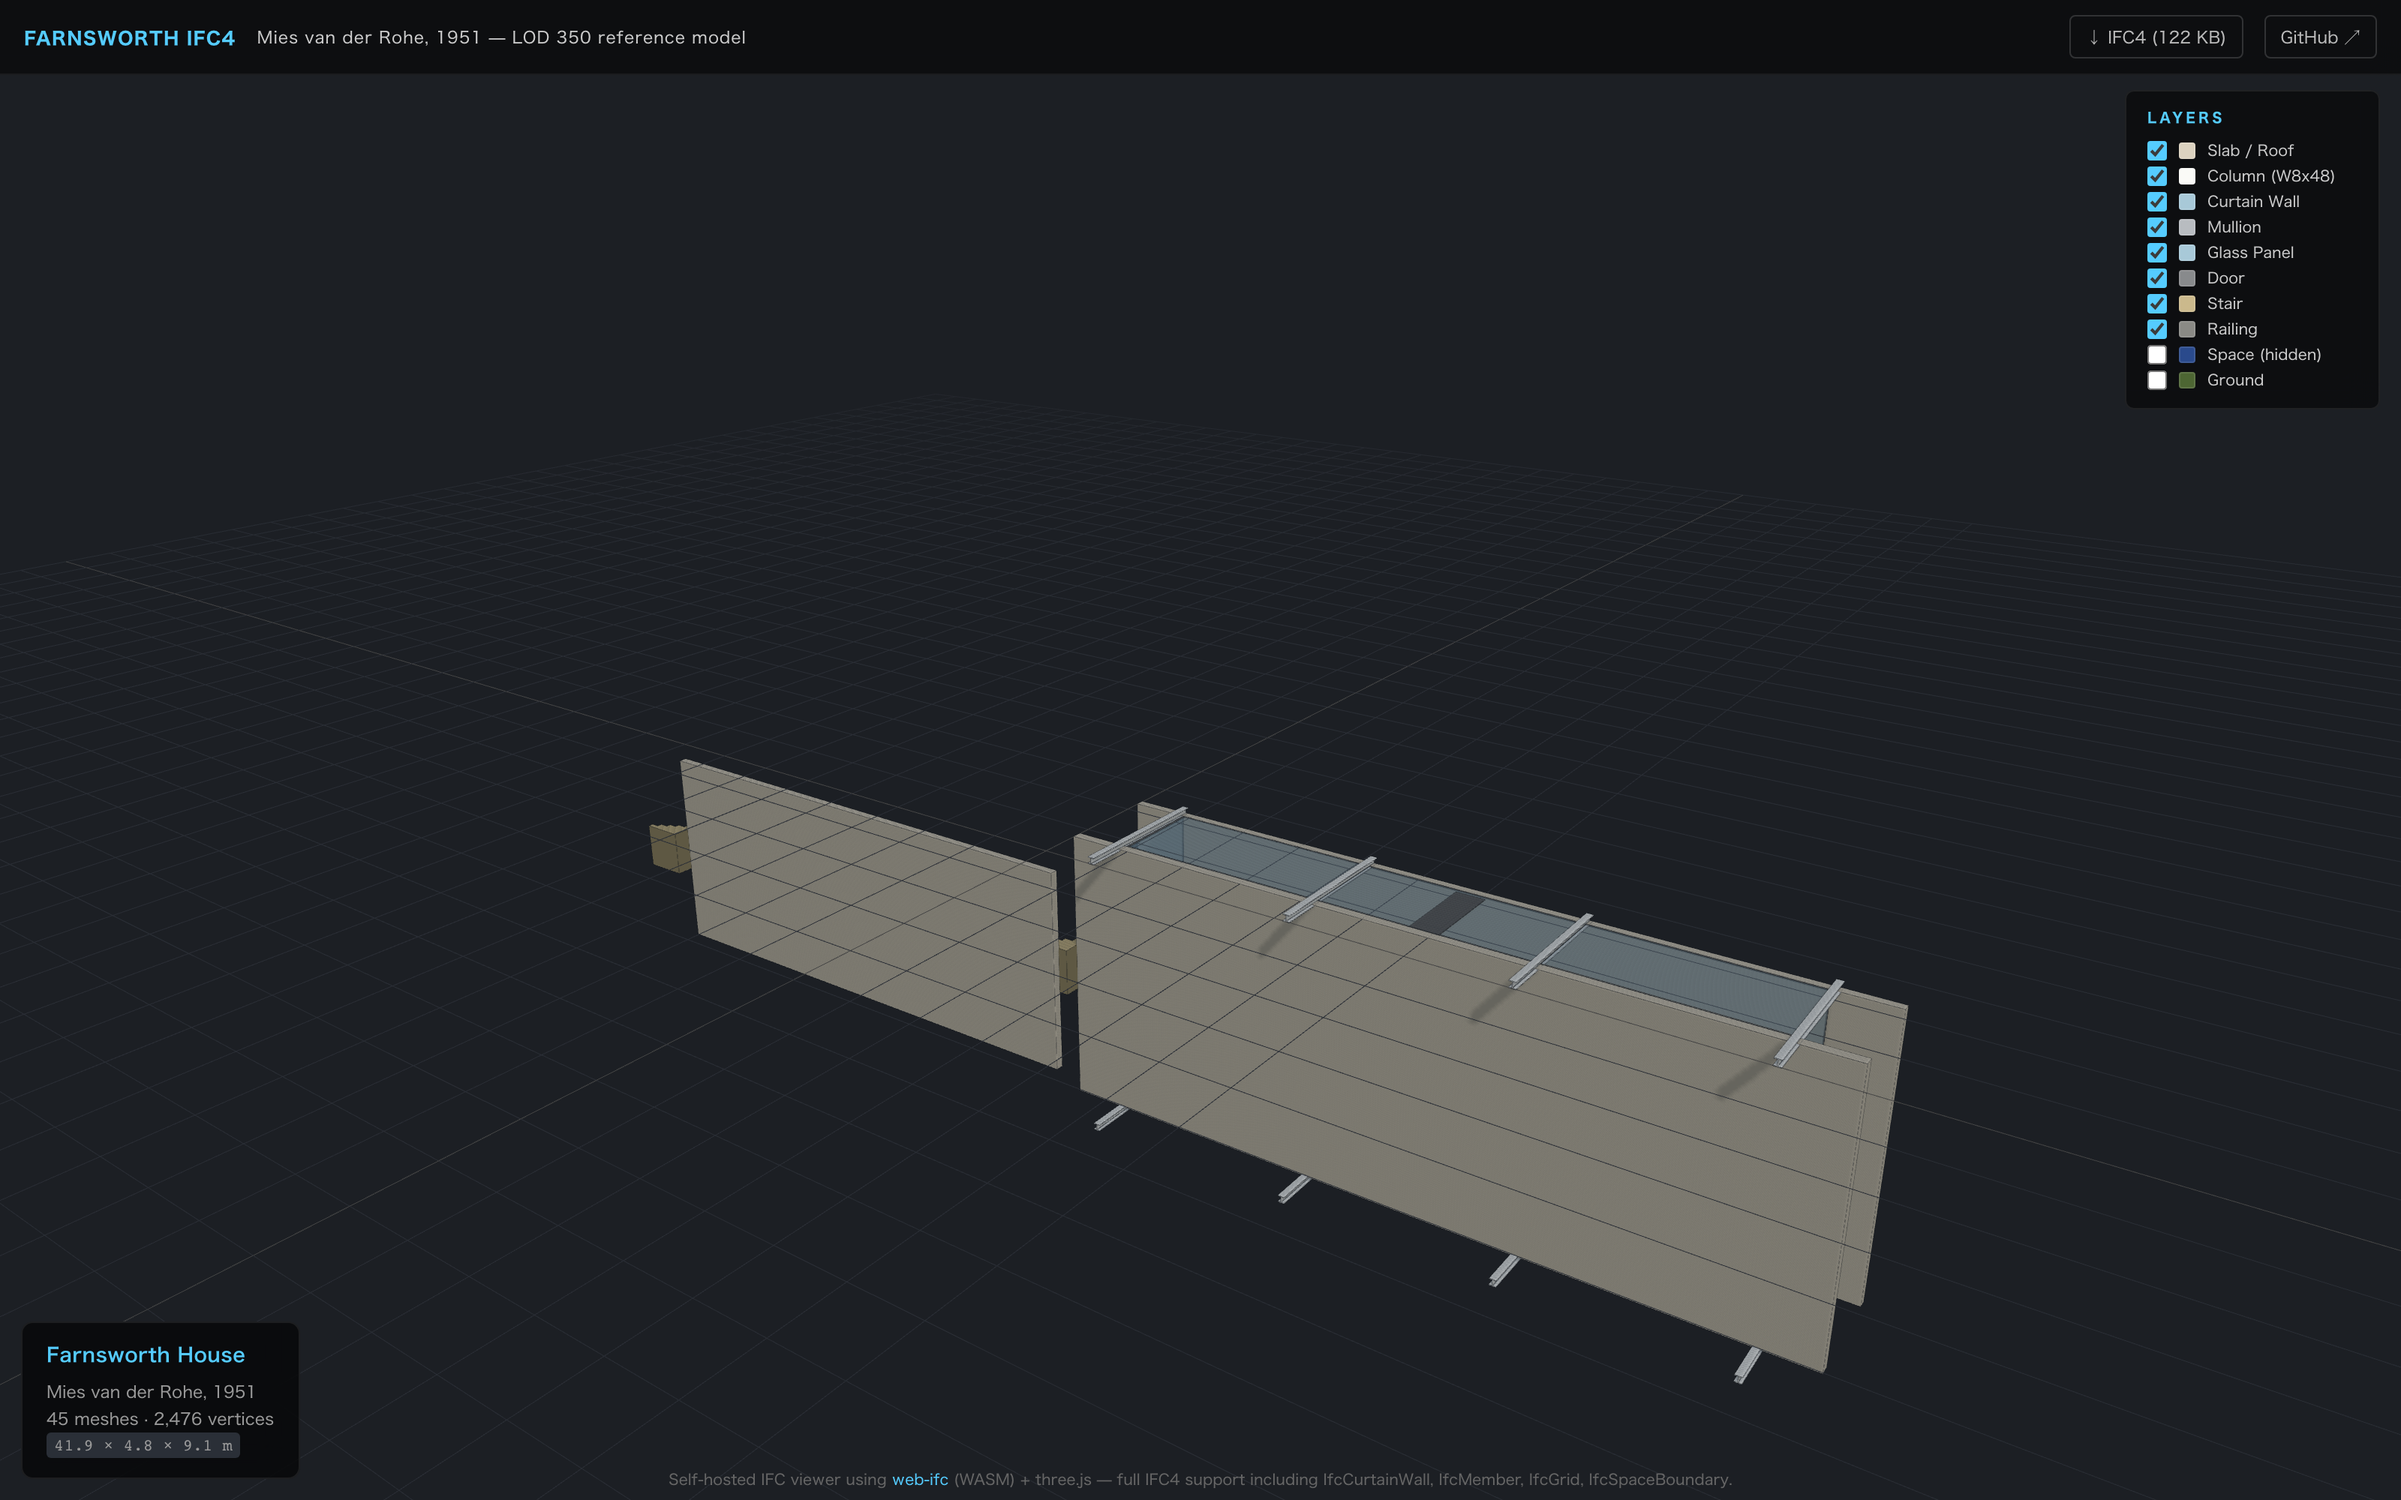
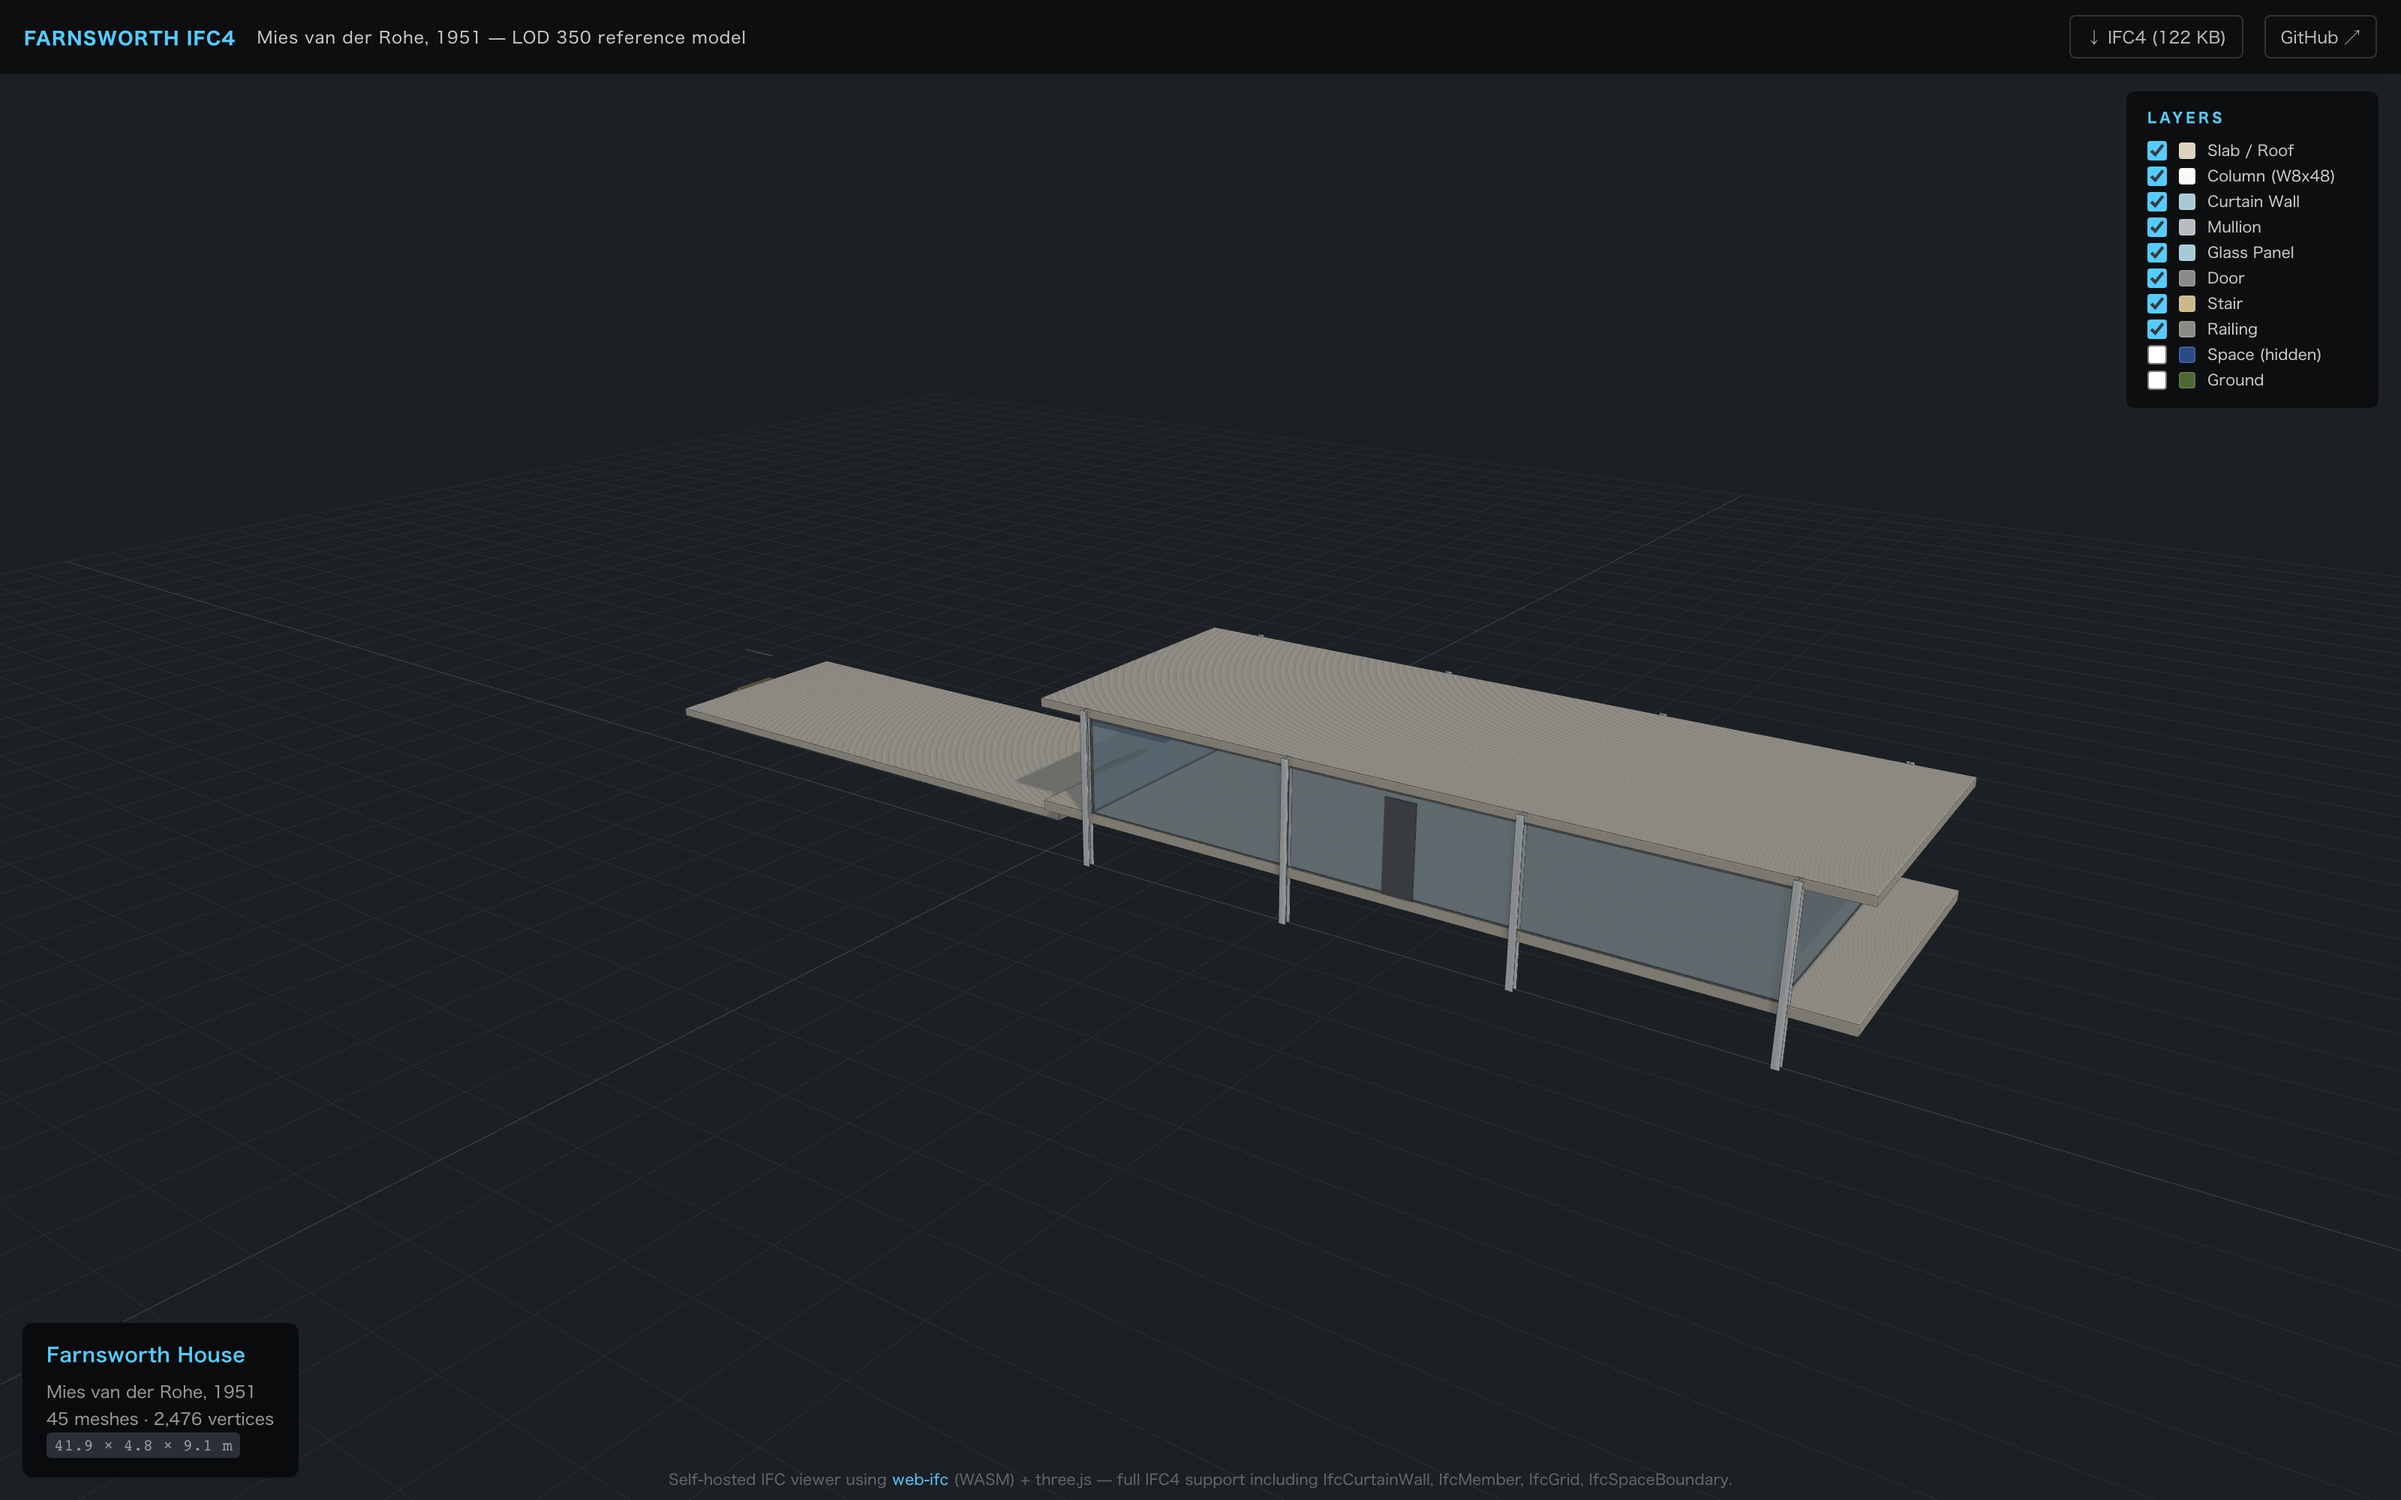
Fix double-rotation: web-ifc already maps IFC Z to three Y
web-ifc 0.0.66 emits flatTransformation matrices that already convert
IFC's Z-up convention to three.js's Y-up. Adding root.rotation.x=-π/2
on top of that put the building on its side — IFC vertical (Z) ended
up at three -Z (depth) instead of three Y (height), so what should
have been the upright glass pavilion was rendered lying flat.

Drop the rotation. Now the world bbox lands correctly:
  Y (vertical) = 0 .. 4.95 m
  X (long)     = 0 .. 23.47 m + cantilevers
  Z (depth)    = -8.74 .. 0 m

The viewer now shows the iconic Farnsworth silhouette: glass
pavilion floating on white W8x48 columns above the travertine terrace.

Changed region(s): [[0.25, 0.403, 0.8438, 0.93]]

diff --git a/viewer/index.html b/viewer/index.html
@@ -296,11 +296,13 @@ ifcAPI.StreamAllMeshes(modelID, (flatMesh) => {
 
 ifcAPI.CloseModel(modelID);
 
-// Convert Z-up (IFC) to Y-up (three)
+// web-ifc's flatTransformation already maps IFC Z (vertical) to three's Y,
+// so we render directly without an extra rotation.
 const root = new THREE.Group();
 for (const k of Object.keys(groups)) root.add(groups[k]);
-root.rotation.x = -Math.PI / 2;
 scene.add(root);
+window.__root = root;
+window.__groups = groups;
 
 console.log(`Rendered ${count} meshes, ${totalVerts} vertices total`);
 
